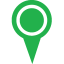
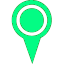
enhance markers contrast

Changed region(s): [[0.1875, 0.0, 0.8125, 0.9688], [0.3125, 0.125, 0.6875, 0.5]]

diff --git a/resources/views/components/varcave/caveshow/tab-access.blade.php b/resources/views/components/varcave/caveshow/tab-access.blade.php
@@ -141,7 +141,7 @@
                 // Reusable style
                 var caveStyle = new ol.style.Style({
                     image: new ol.style.Icon({
-                        src: "/img/marker_green_64.png",
+                        src: "/img/marker_03fc84_64.png",
                         anchor: [0.5, 1],
                         scale: 0.5
                     }),
@@ -156,7 +156,7 @@
                             width: 0.5
                         }),
                         backgroundFill: new ol.style.Fill({
-                            color: "#22B14C"
+                            color: "#03fc84"
                         }),
                         padding: [3, 3, 3, 3],
                         offsetY: -24,
@@ -191,8 +191,8 @@
                     
                     nearCaveFeature.setStyle(caveStyle.clone());
                     nearCaveFeature.getStyle().getText().setText(nearCaveData.name);
-                    nearCaveFeature.getStyle().getImage().setSrc("/img/marker_blue_64.png");
-                    nearCaveFeature.getStyle().getText().getBackgroundFill().setColor("#4258ff");  // a essayer #66d1ff
+                    nearCaveFeature.getStyle().getImage().setSrc("/img/marker_is-info_209cee_64.png");
+                    nearCaveFeature.getStyle().getText().getBackgroundFill().setColor("#209cee");  // a essayer #66d1ff
                     nearCaveFeatures_a.push(nearCaveFeature);
                 }
                 Logger.debug('Closest caves features detail:');

diff --git a/bootstrap/providers.php b/bootstrap/providers.php
@@ -3,7 +3,7 @@
 return [
     App\Providers\AppServiceProvider::class,
     App\Providers\FortifyServiceProvider::class,
-    App\Providers\GpxServiceProvider::class,
     App\Providers\SettingsServiceProvider::class,
     App\Providers\UserPreferenceServiceProvider::class,
+    App\Providers\GpxServiceProvider::class,
 ];

diff --git a/config/database.php b/config/database.php
@@ -16,7 +16,7 @@ return [
     |
     */
 
-    'default' => env('DB_CONNECTION', 'sqlite'),
+    'default' => env('DB_CONNECTION', '___sqlite___'),
 
     /*
     |--------------------------------------------------------------------------
